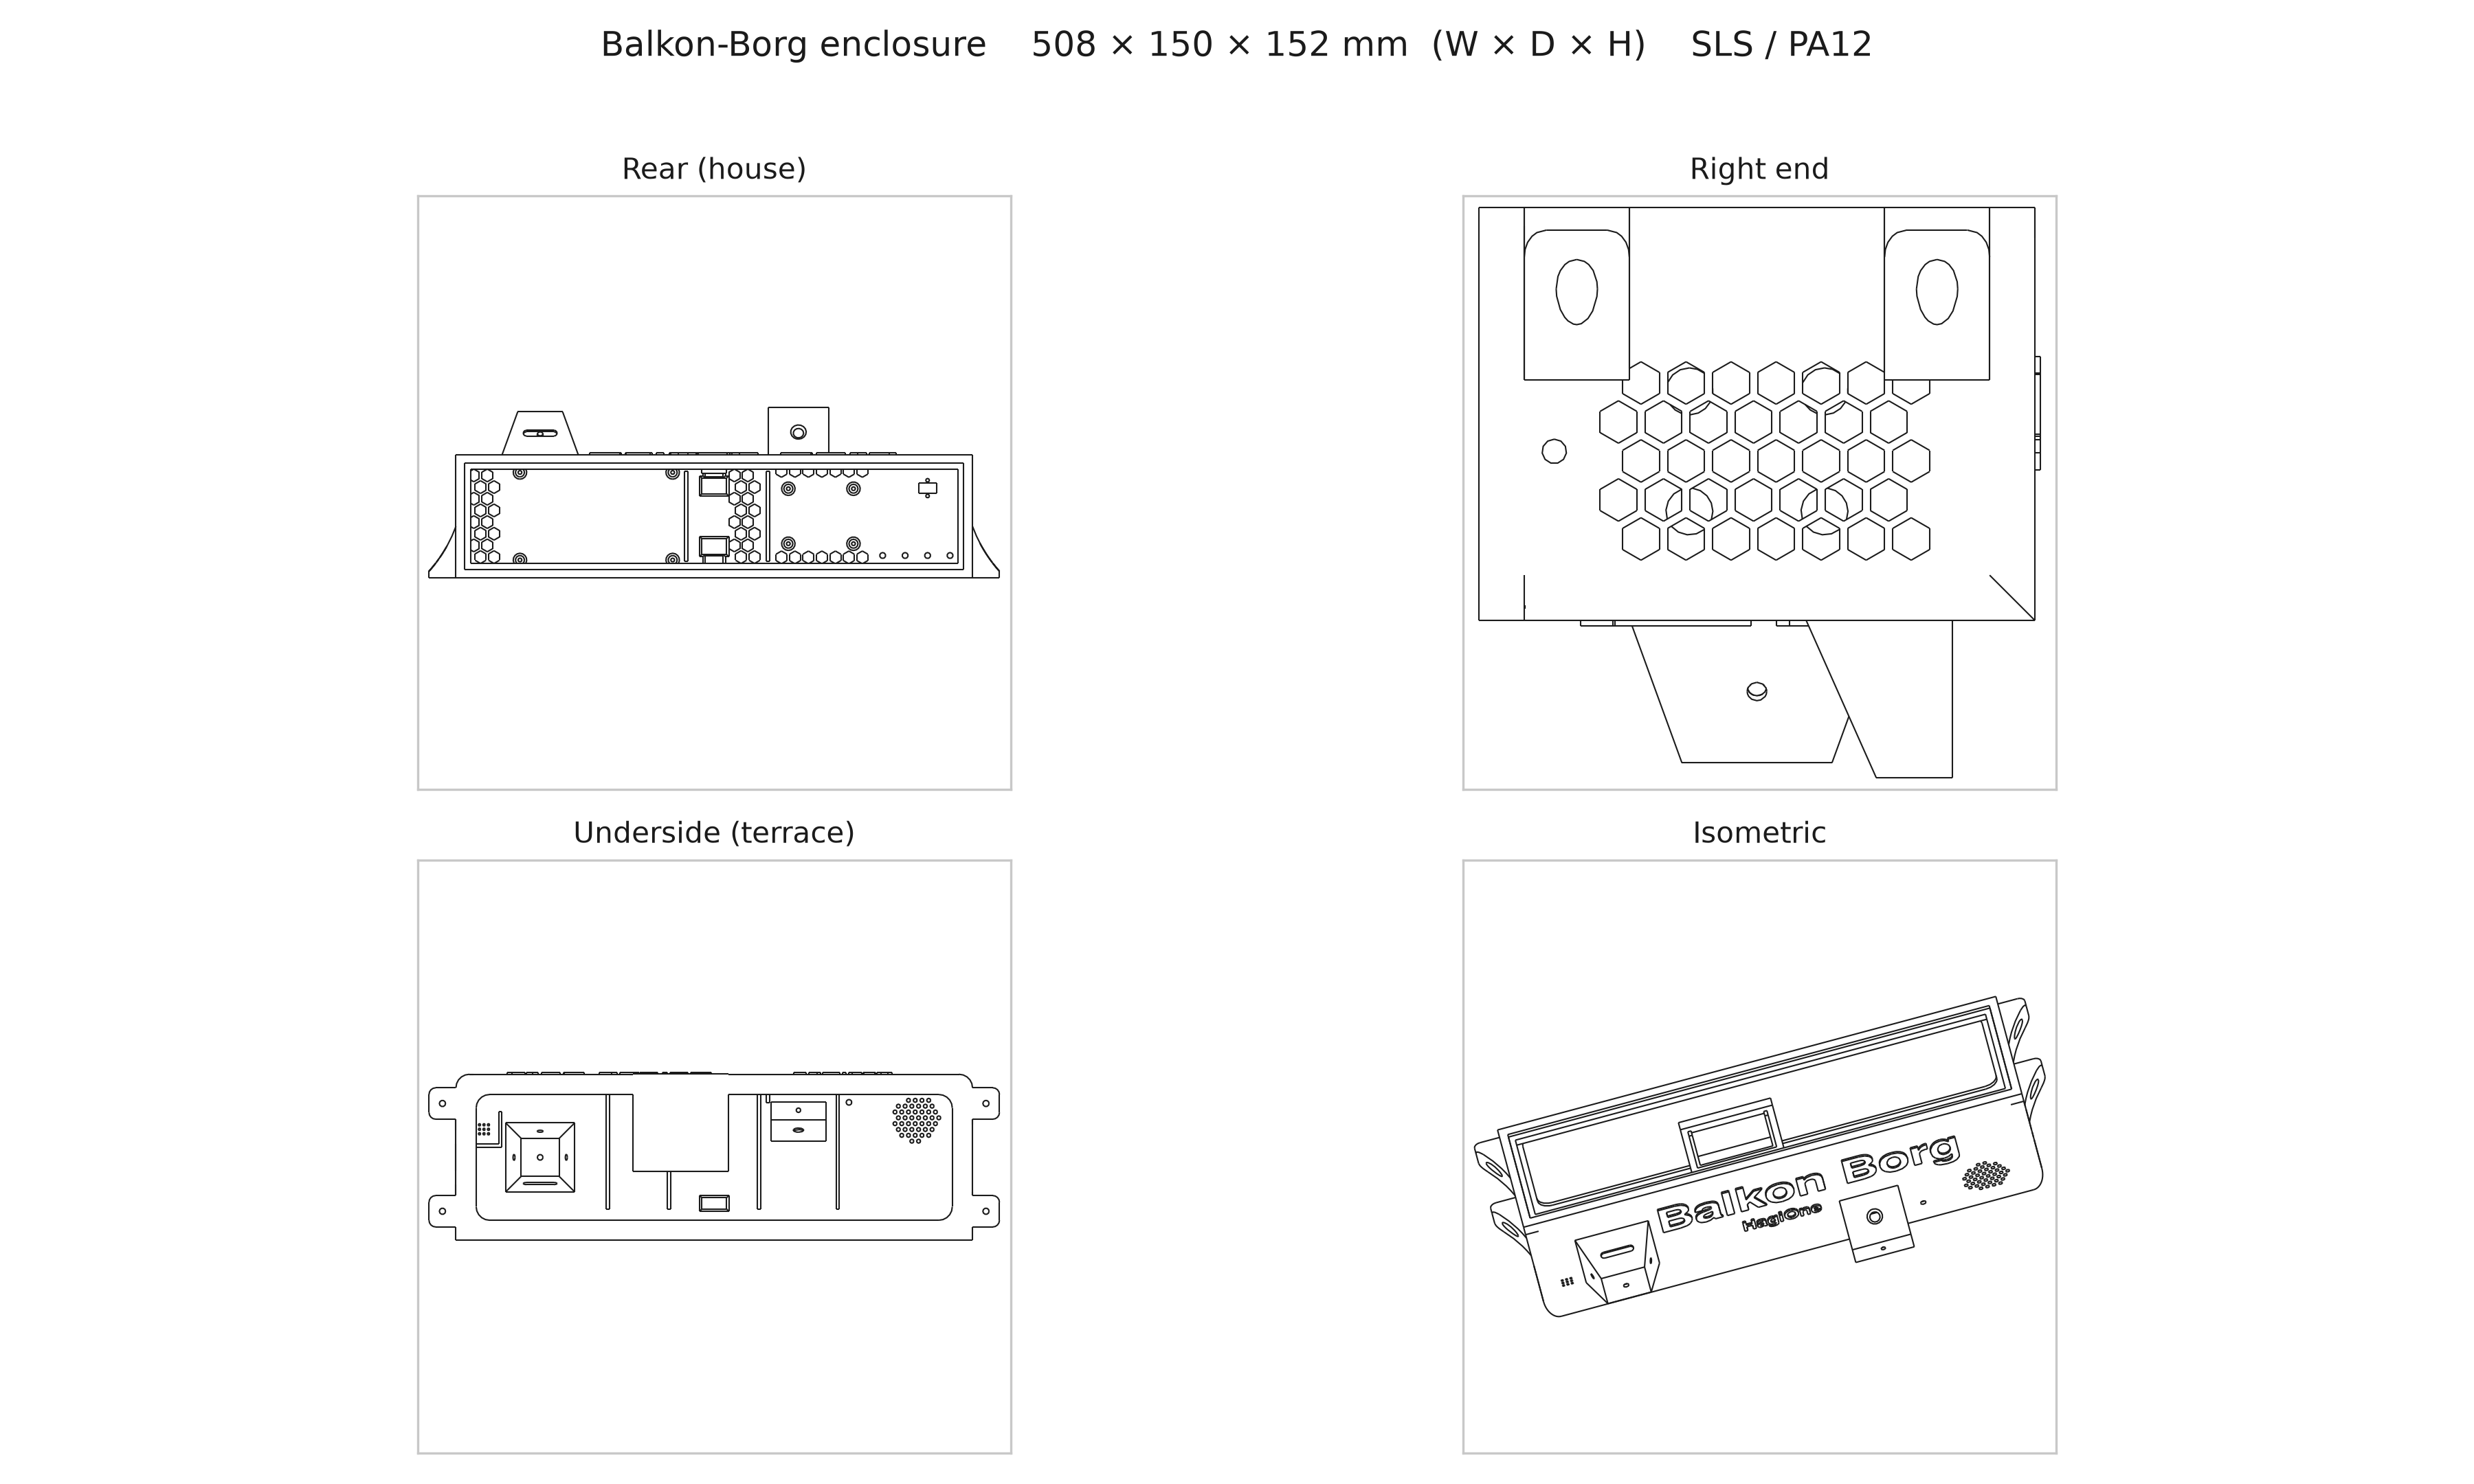
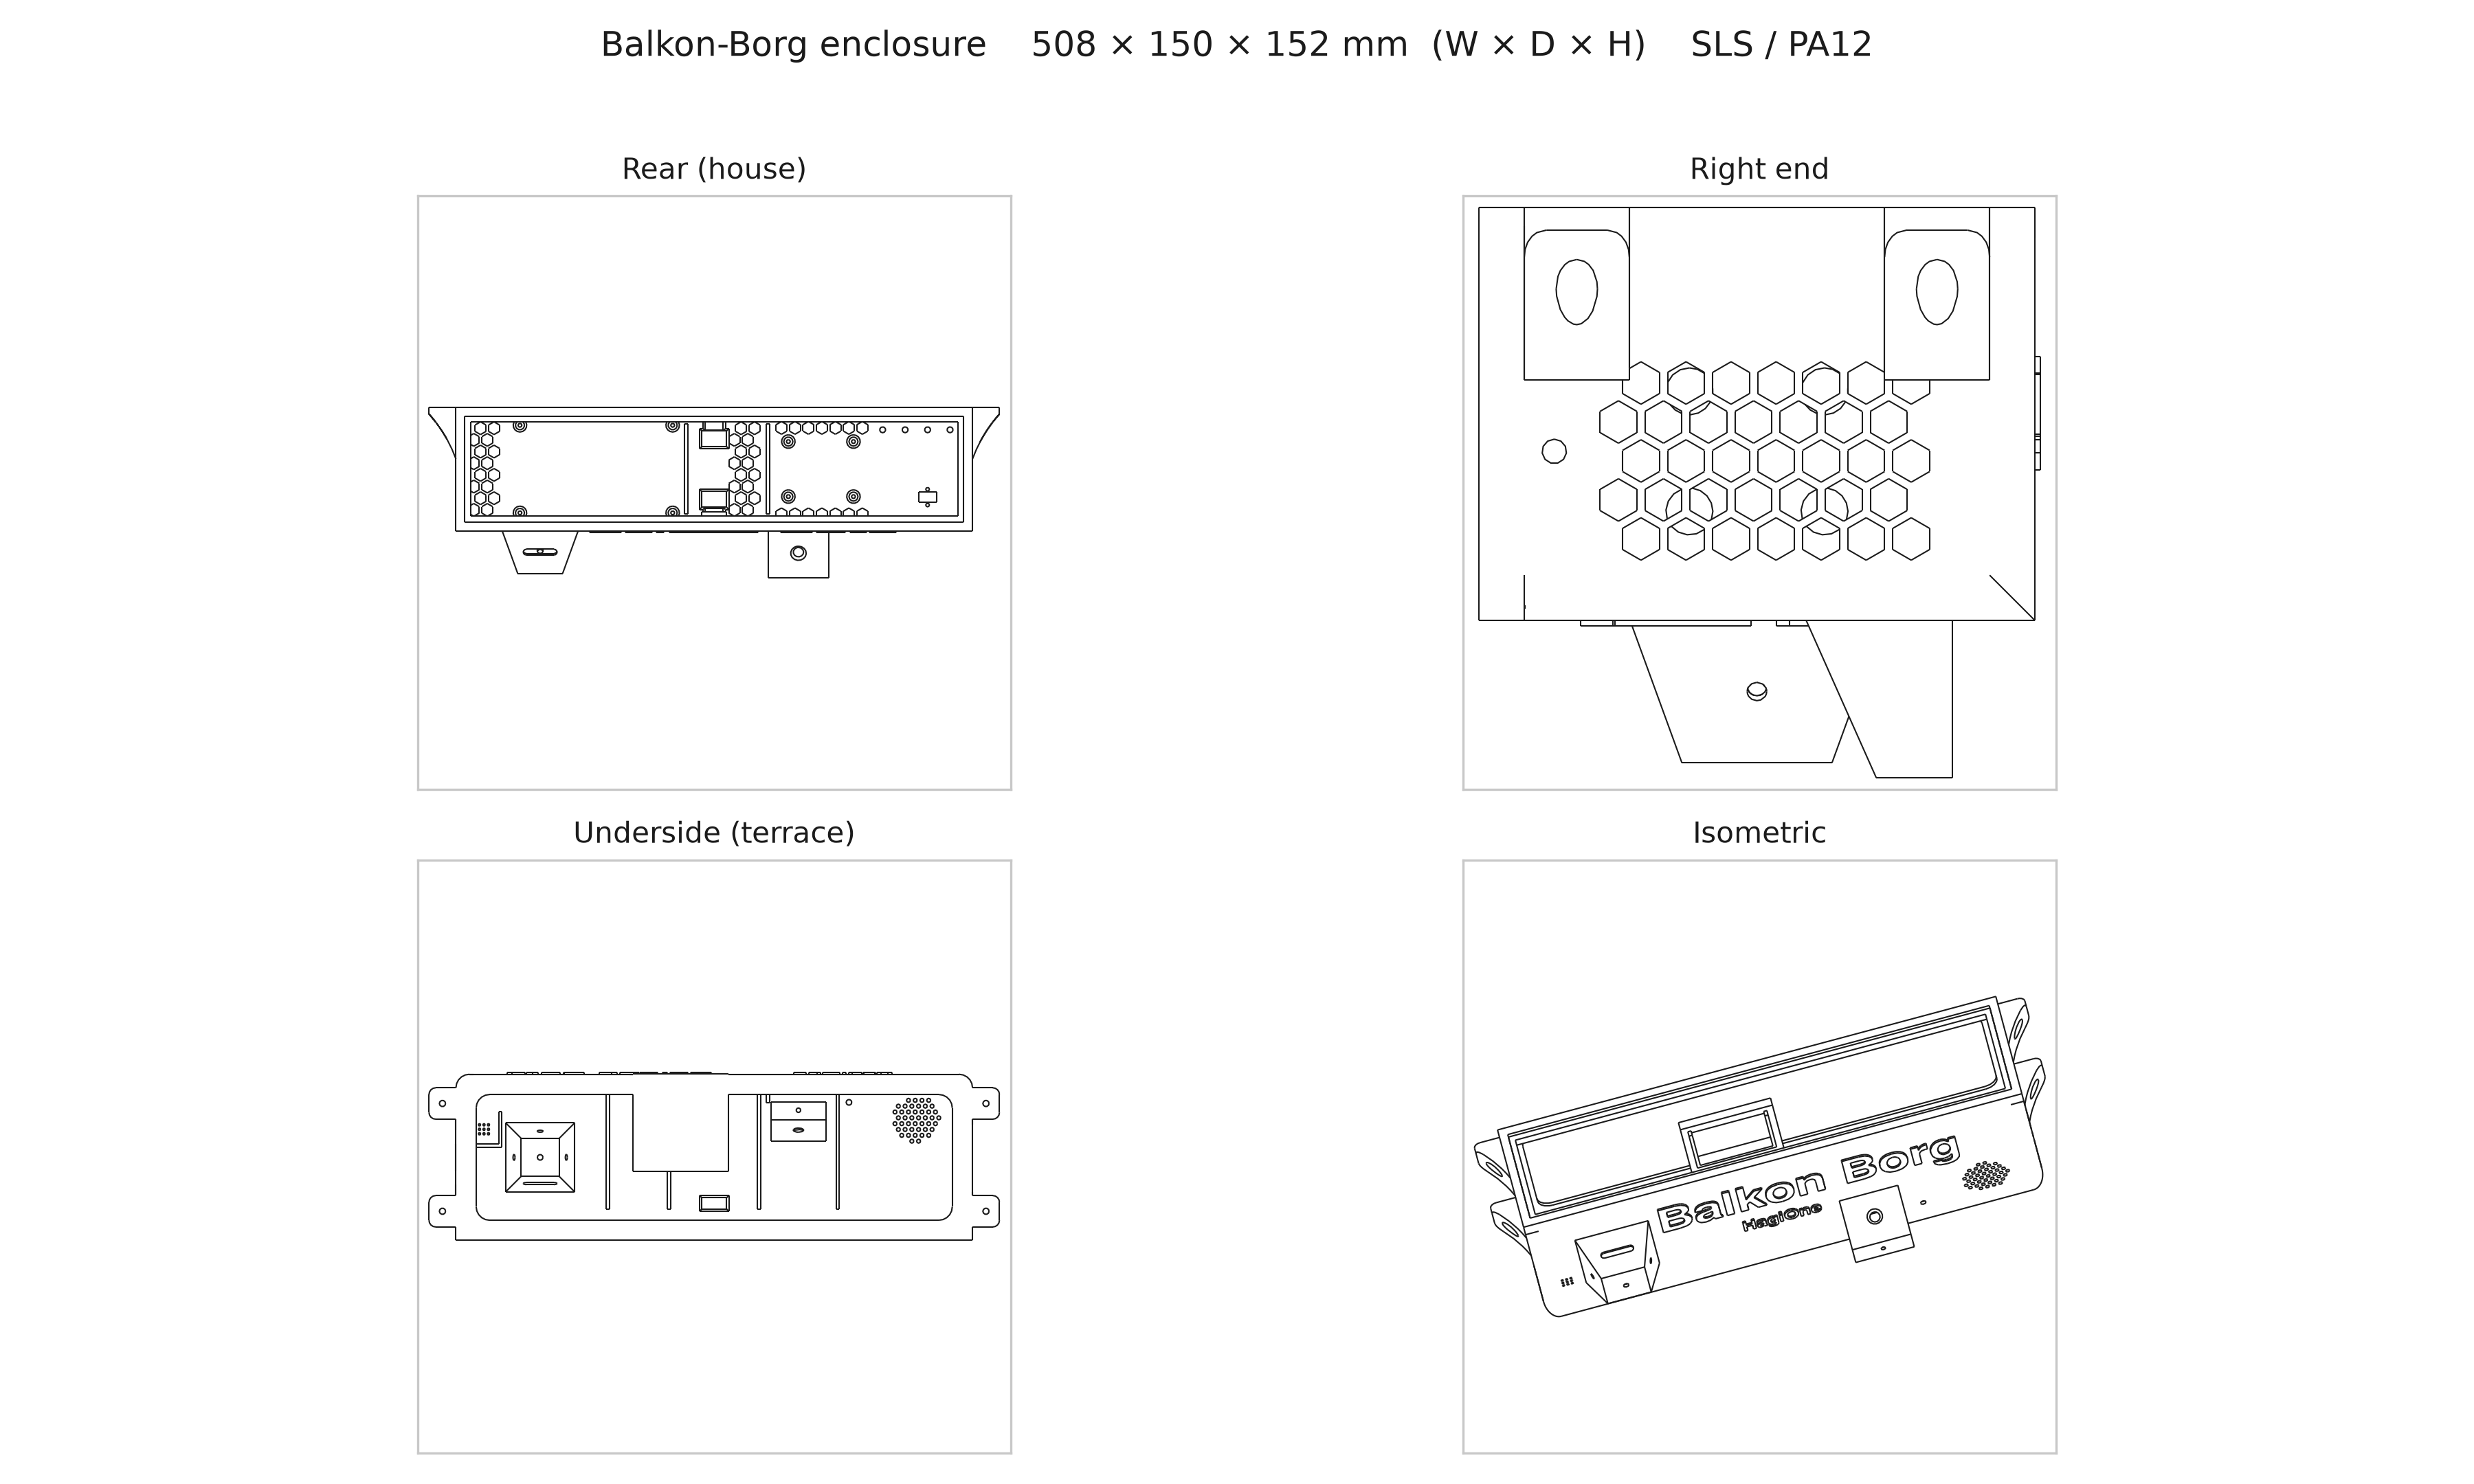
cad: fix the rear view being upside down in the overview
The rear view carried a stray vertical flip, putting the XT60 inlet
(low on the wall) at the top and the status LEDs (high) at the bottom.
Drop the flip: TechDraw's projection already lands it upright, so the
ceiling ears sit at the top corners, the status LEDs high, and the
down-hanging pods below the body.

Claude-Session: https://claude.ai/code/session_01XWmJGjv3ckuxiswiVajFnD

Changed region(s): [[0.1867, 0.2792, 0.4044, 0.4032]]

diff --git a/cad/render-views.py b/cad/render-views.py
@@ -29,7 +29,7 @@ FRAME = "#c8c8c8"
 # per-view orientation fix-ups (in-plane rotation in degrees ccw, flip x, flip y), tuned
 # to the TechDraw projection frame so each view reads upright.
 TRANSFORMS = {
-    "Rear (house)": (0.0, False, True),
+    "Rear (house)": (0.0, False, False),
     "Right end": (90.0, False, False),
     "Underside (terrace)": (0.0, False, False),
     "Isometric": (60.0, False, False),